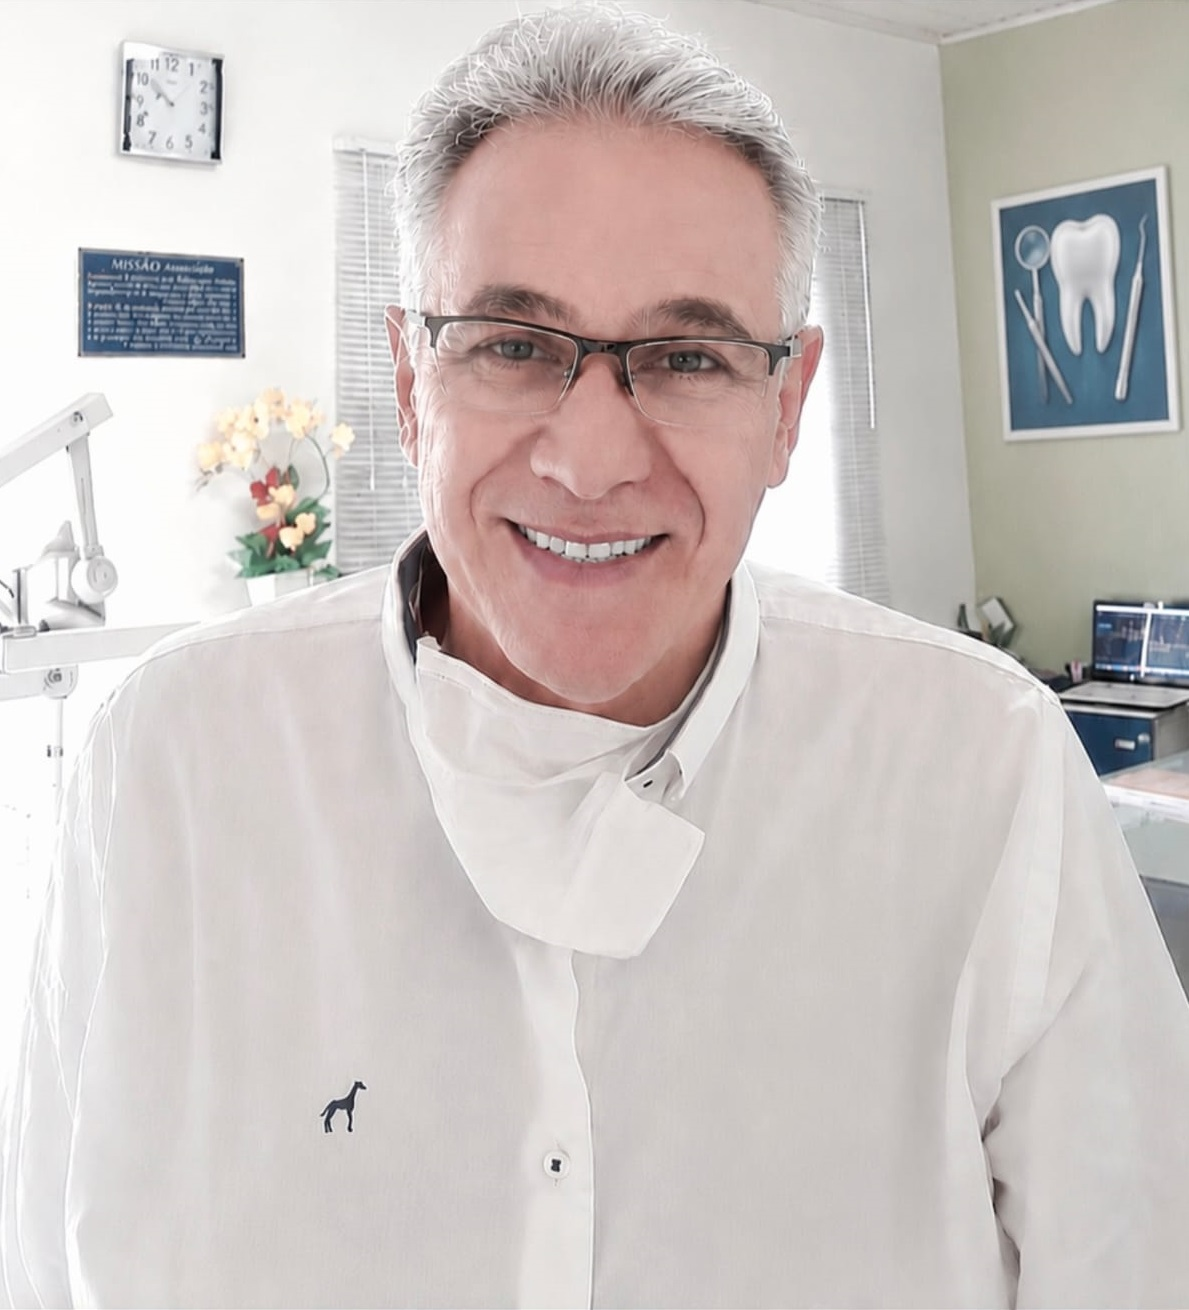
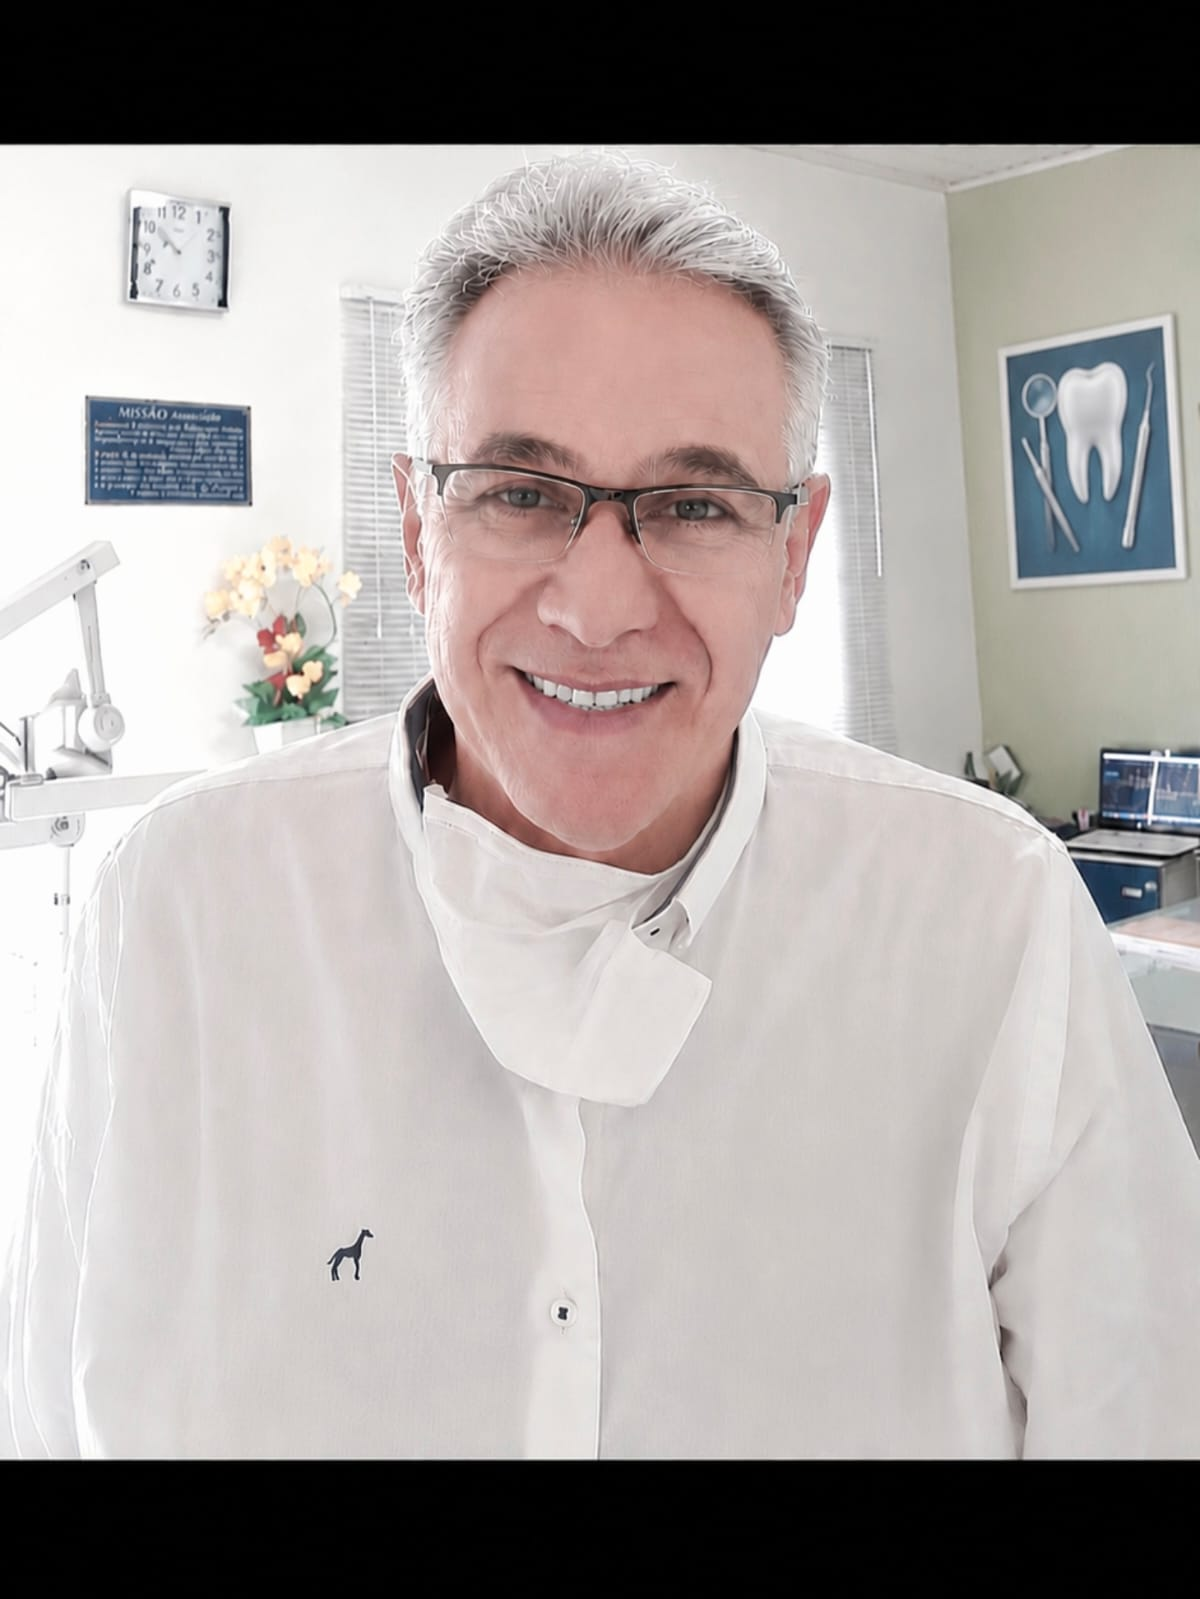
feat: replace doctor photo and add two new prophylaxis before/after slides

diff --git a/index.html b/index.html
@@ -15,7 +15,7 @@
     <link rel="stylesheet" href="https://cdnjs.cloudflare.com/ajax/libs/font-awesome/6.4.0/css/all.min.css">
     
     <!-- Custom CSS -->
-    <link rel="stylesheet" href="style.css?v=7">
+    <link rel="stylesheet" href="style.css?v=8">
 </head>
 <body>
 
@@ -192,6 +192,12 @@
                                 <div class="prophylaxis-slide">
                                     <img src="assets/images/antes_e_depois_3.jpg?v=2" alt="Demonstração Antes e Depois 3">
                                 </div>
+                                <div class="prophylaxis-slide">
+                                    <img src="assets/images/antes_e_depois_4.jpg?v=2" alt="Demonstração Antes e Depois 4">
+                                </div>
+                                <div class="prophylaxis-slide">
+                                    <img src="assets/images/antes_e_depois_5.jpg?v=2" alt="Demonstração Antes e Depois 5">
+                                </div>
                             </div>
                             
                             <!-- Indicadores do Carrossel -->
@@ -199,6 +205,8 @@
                                 <span class="prophylaxis-dot active" data-slide="0"></span>
                                 <span class="prophylaxis-dot" data-slide="1"></span>
                                 <span class="prophylaxis-dot" data-slide="2"></span>
+                                <span class="prophylaxis-dot" data-slide="3"></span>
+                                <span class="prophylaxis-dot" data-slide="4"></span>
                             </div>
                         </div>
                     </div>
@@ -581,6 +589,6 @@
     </a>
 
     <!-- Custom JS -->
-    <script src="script.js?v=7"></script>
+    <script src="script.js?v=8"></script>
 </body>
 </html>